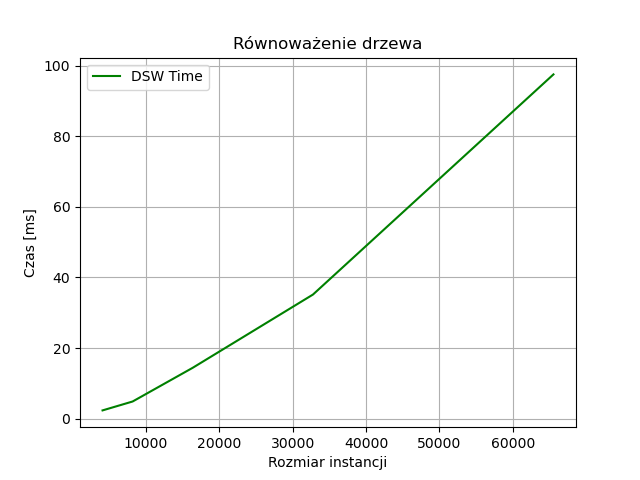
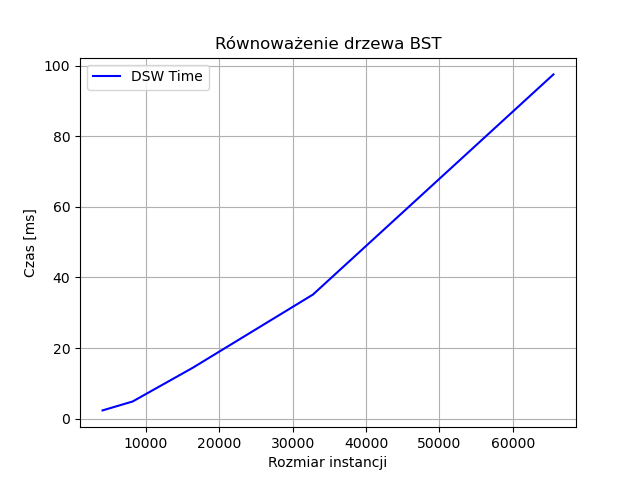
New updates

diff --git a/Project_2/wykresy.py b/Project_2/wykresy.py
@@ -40,7 +40,7 @@ def plot(array_size, create_time_bst, create_time_avl, search_time_bst, search_t
     
     bst_oper = (create_time_bst, search_time_bst, in_order_time_bst, dsw_time_bst)
     avl_oper = (create_time_avl, search_time_avl, in_order_time_avl)    
-    titles = ("Tworzenie drzew", "Wyszukanie min/max", "Wypisanie In-Order", "Równoważenie drzewa")
+    titles = ("Tworzenie drzew", "Wyszukanie min/max", "Wypisanie In-Order", "Równoważenie drzewa BST")
     file_names = ("create_time", "search_time", "in_order_time", "dsw_time")
     label_bst = ("BST Create Time", "BST Search Time", "BST In-Order Time")
     label_avl = ("AVL Create Time", "AVL Search Time", "AVL In-Order Time")
@@ -48,10 +48,11 @@ def plot(array_size, create_time_bst, create_time_avl, search_time_bst, search_t
     for el in range(4):
         plt.figure()
         if el == 3:
-            plt.plot(array_size, bst_oper[3], label='DSW Time', color='green')
+            plt.plot(array_size, bst_oper[3], label='DSW Time', color='blue')
         else:
-            plt.plot(array_size, bst_oper[el], label=label_bst[el], color='blue')
-            plt.plot(array_size, avl_oper[el], label=label_avl[el], color='red')
+            continue
+            # plt.plot(array_size, bst_oper[el], label=label_bst[el], color='blue')
+            # plt.plot(array_size, avl_oper[el], label=label_avl[el], color='red')
 
         plt.title(titles[el])
         plt.xlabel("Rozmiar instancji")
